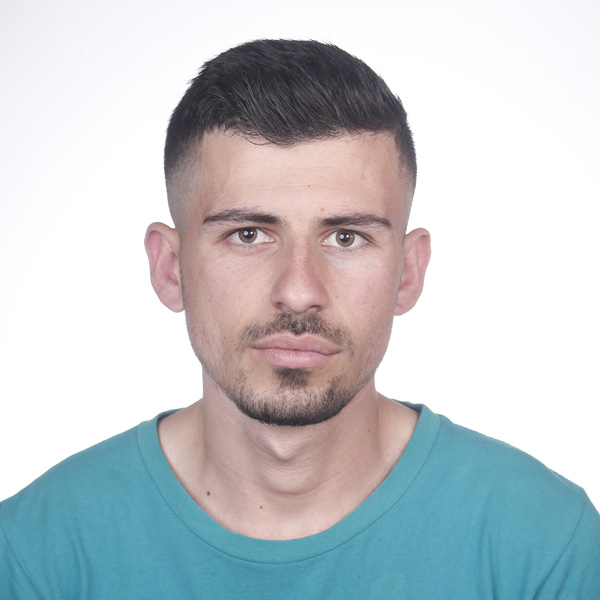
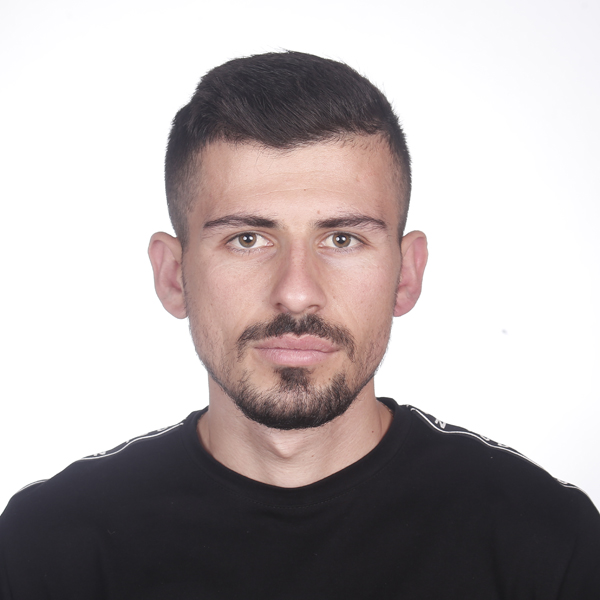
added a project

diff --git a/index.html b/index.html
@@ -29,6 +29,8 @@
 					<div class="row">
 						<div class="col-4 col-5-large col-12-medium">
 							<span class="image fit"><img src="images/profile.JPG" alt="" /></span>
+							<span class="image fit"><img src="images/profile1.JPG" alt="" /></span>
+
 							<p>Behind every succesfull machine, there is a <strong>Human</strong></p>
 						</div>
 						<div class="col-8 col-7-large col-12-medium">
